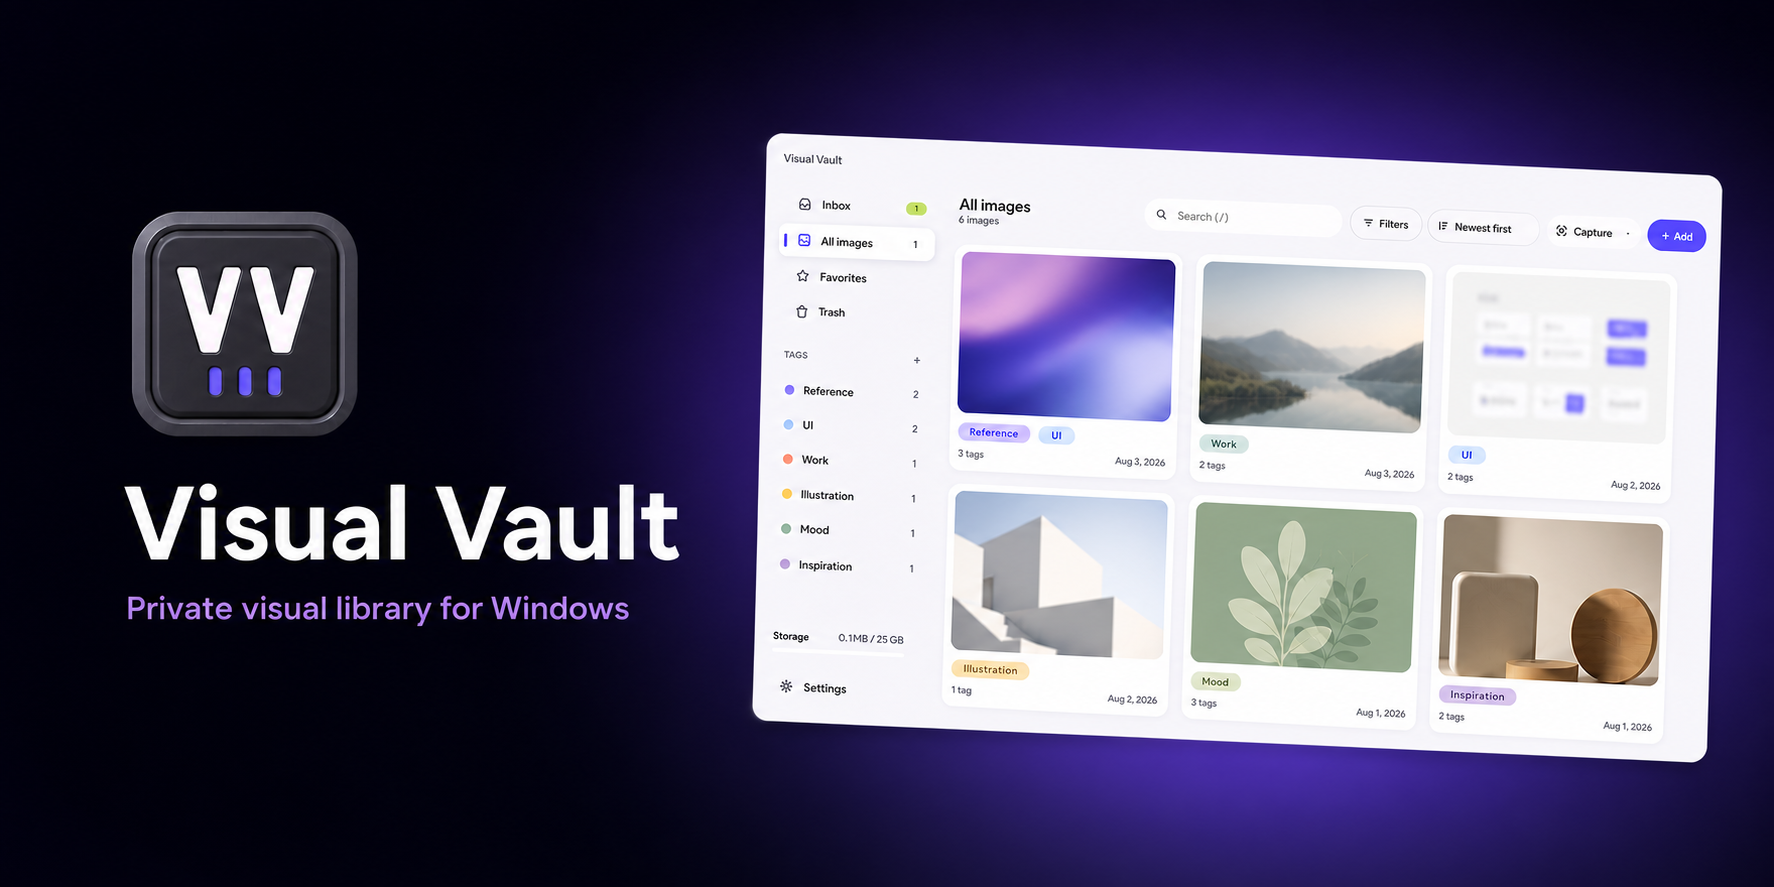
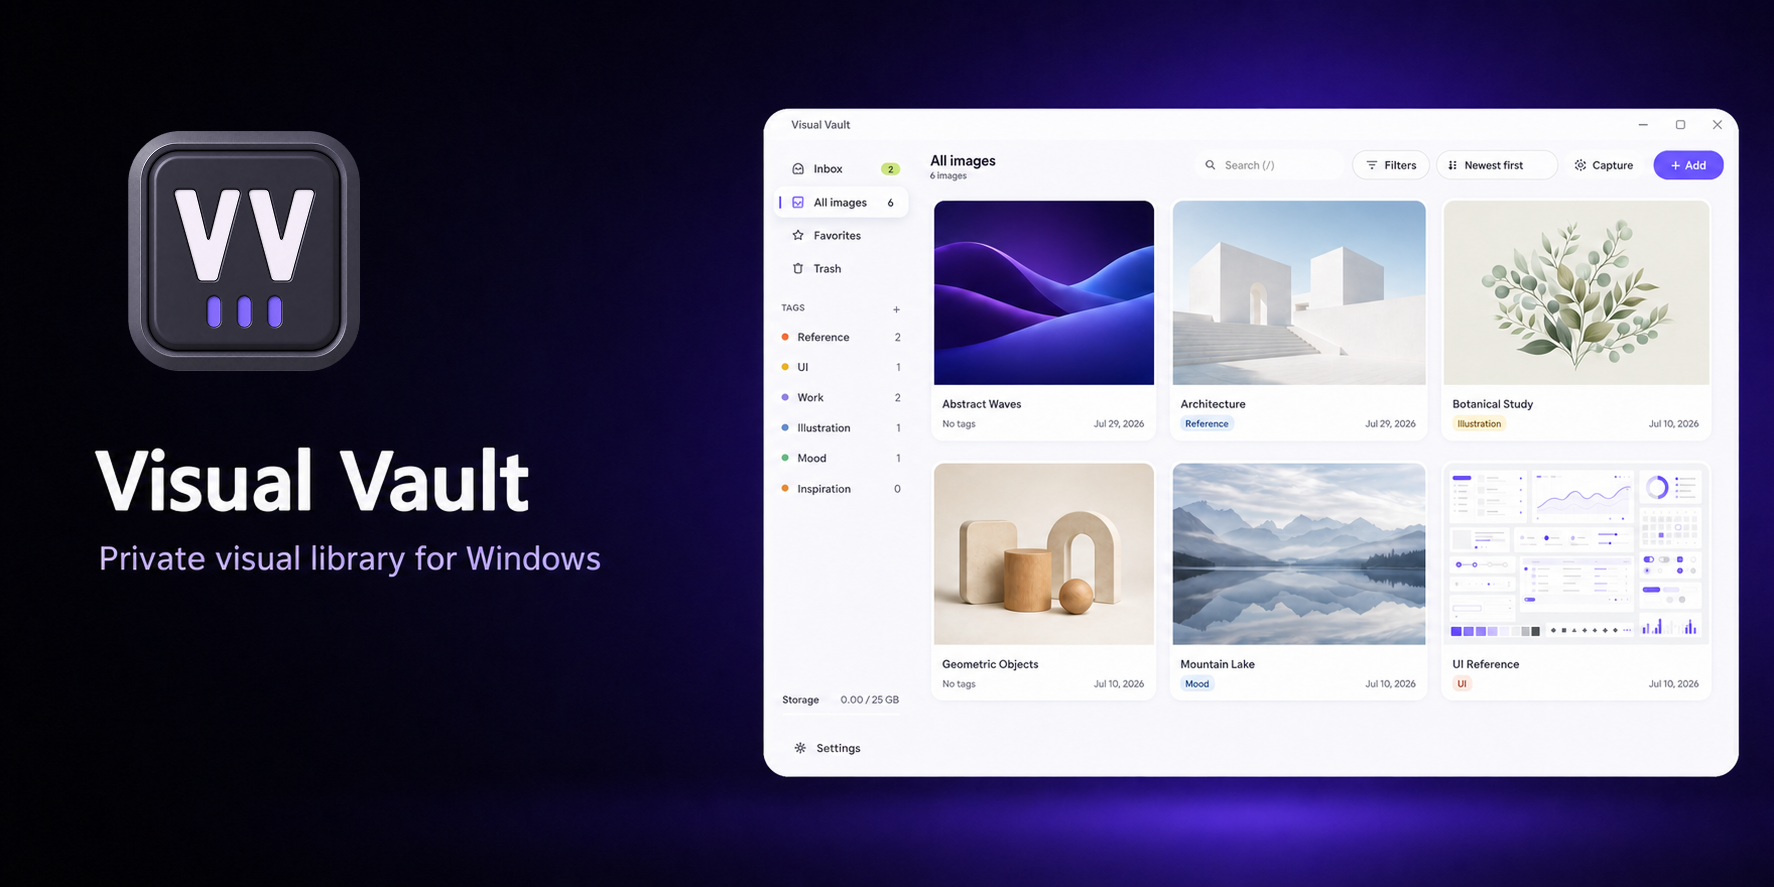
Add files via upload

diff --git a/README.md b/README.md
@@ -1,6 +1,6 @@
 # Visual Vault
 
-Локальный Windows-каталог для скриншотов и визуальных референсов. Изображения, теги и база данных хранятся на компьютере; сетевых запросов приложение не выполняет.
+Локальный каталог для скриншотов и визуальных референсов. Изображения, теги и база данных хранятся на компьютере; сетевых запросов приложение не выполняет.
 
 ![Visual Vault product preview](docs/screenshots/visual-vault-github-cover.png)
 
@@ -16,6 +16,20 @@
 - глобальная горячая клавиша и режим в трее;
 - резервные копии, экспорт настроек и проверка SQLite-базы;
 - installer и portable EXE.
+
+## Обзор интерфейса
+
+| Библиотека | Захват |
+| --- | --- |
+| ![Dark library](docs/screenshots/github-visuals-v3/generated/02-library-dark.png) | ![Capture modes](docs/screenshots/github-visuals-v3/generated/03-capture.png) |
+
+| Светлая и тёмная темы | Рабочий процесс |
+| --- | --- |
+| ![Light and dark themes](docs/screenshots/github-visuals-v3/generated/04-light-dark.png) | ![Capture, save, tag and pin workflow](docs/screenshots/github-visuals-v3/generated/05-workflow.png) |
+
+### Локальное хранение
+
+![Local-first storage](docs/screenshots/github-visuals-v3/generated/06-local-first.png)
 
 ## Системные требования
 
